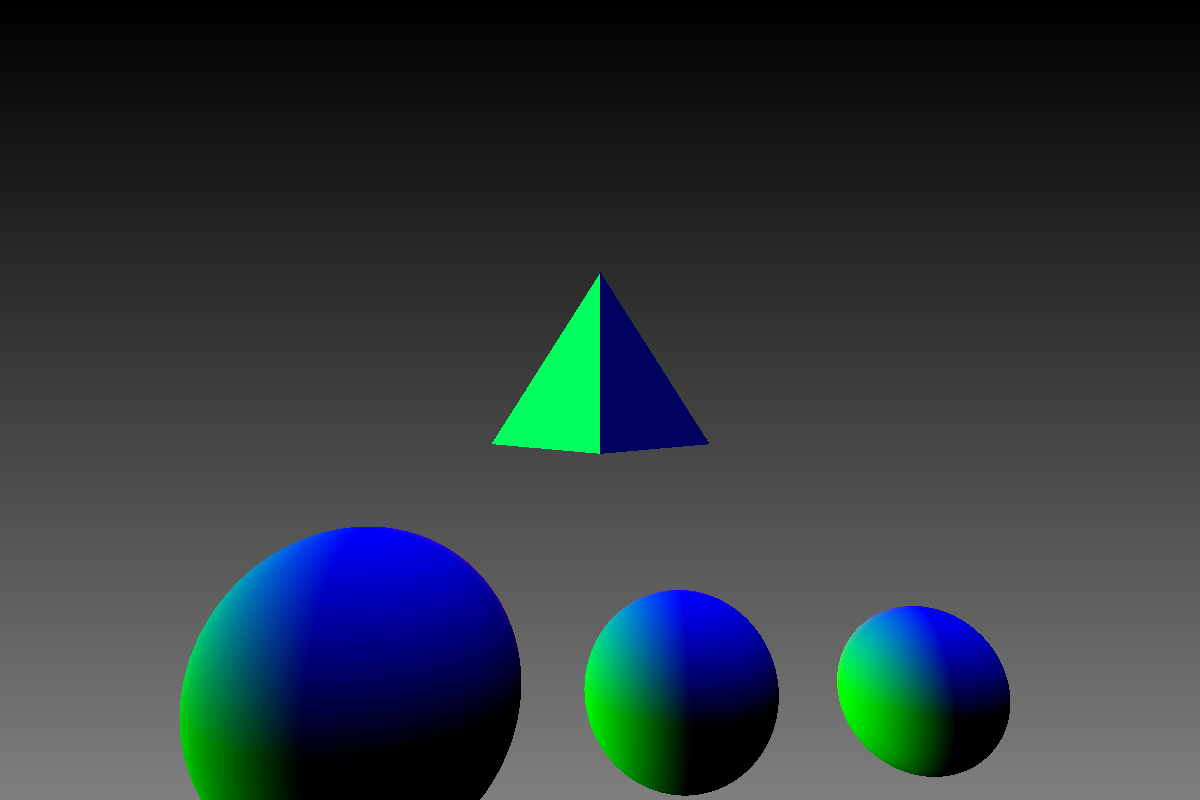
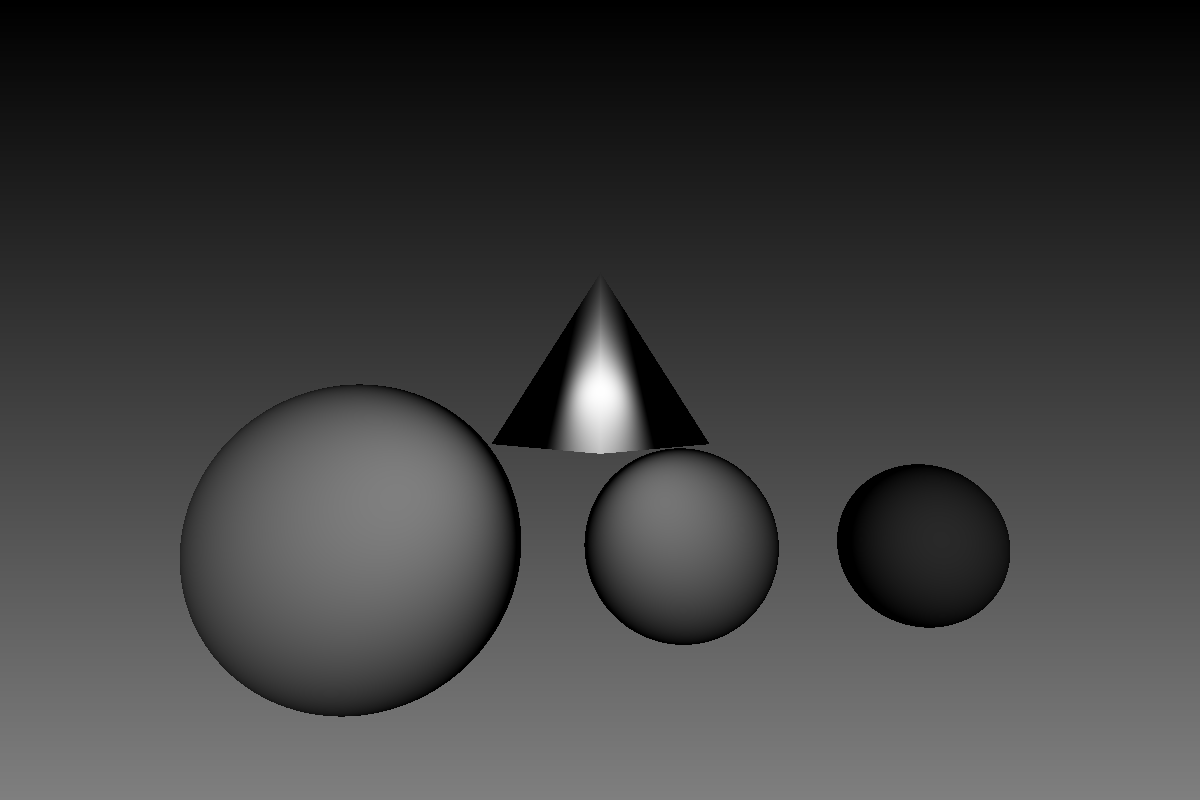
second

Changed region(s): [[0.1233, 0.3438, 0.6475, 1.0], [0.6783, 0.5625, 0.8633, 0.9688]]

diff --git a/render.go b/render.go
@@ -35,10 +35,10 @@ func Render(objectArray []geometry.Geometry, cam_or Vec, WIDTH, HEIGHT int, file
 
 			//tmin = depth of Hitpoint nearest to camera
 			var tMin float64 = 10000
-			var ObjectHitIndex int
+			//var ObjectHitIndex int
 
 			//Loop thorough Objects
-			for i, currentObject := range objectArray {
+			for _, currentObject := range objectArray {
 				
 				//Check for intersection in every Object
 				if currentObject.Intersect(ray, &t) {
@@ -50,7 +50,7 @@ func Render(objectArray []geometry.Geometry, cam_or Vec, WIDTH, HEIGHT int, file
 					if t < tminOld {
 						tMin = t
 						//what Object got hit
-						ObjectHitIndex = i
+						//ObjectHitIndex = i
 					}
 				}
 			}
@@ -59,14 +59,14 @@ func Render(objectArray []geometry.Geometry, cam_or Vec, WIDTH, HEIGHT int, file
 				HitPoint := ray.O.Add(ray.D.Multiply(tMin))
 
 				//Light Attendance
-				LightPos := Vec{-4, -1, 3}
+				LightPos := Vec{-6, 0, 1}
 				LightAttendance := Dot(HitPoint.Normalized(), LightPos.Normalized())
 
 				//Placeholder Color TODO!
 				//Color Spheres (color multiplied with Light Attendance)
 				//col = color.Gray32(float32(ObjectHitIndex) / 5)
 				col = color.Gray32(float32(LightAttendance))
-				col = color.FromVec(objectArray[ObjectHitIndex].Normal(ray, HitPoint))
+				//col = color.FromVec(objectArray[ObjectHitIndex].Normal(ray, HitPoint))
 				col.Clamp()
 			}
 			//convert float32 colors to 24 bit (0-255) color and save

diff --git a/main.go b/main.go
@@ -11,9 +11,9 @@ func main() {
 	//Simple Sphere test-scene
 	cam_or := Vec{-5, 0, 0}
 	//cam_dir := Vec{-1,0,0}.Normalized() // - TODO
-	sp1 := geometry.Sphere{Vec{0,-0.5,-1.8}, 0.6}
-	sp2 := geometry.Sphere{Vec{0,1.5,-1.8}, 1}
-	sp3 := geometry.Sphere{Vec{0,-2,-1.8}, 0.5}
+	sp1 := geometry.Sphere{Vec{0,-0.5,-0.9}, 0.6}
+	sp2 := geometry.Sphere{Vec{0,1.5,-0.9}, 1}
+	sp3 := geometry.Sphere{Vec{0,-2,-0.9}, 0.5}
 
 	//Cube
 	v1 := Vec{-0.5,0,-0.3}

diff --git a/geometry/geometry.go b/geometry/geometry.go
@@ -6,4 +6,5 @@ import . "../core"
 type Geometry interface {
 	Intersect(ray Ray, t *float64) bool
 	Normal(ray Ray, HitPoint Vec) Vec
+	
 }

diff --git a/geometry/obj.go b/geometry/obj.go
@@ -1,0 +1,5 @@
+package geometry
+
+type Mesh struct {
+	Tris []Tri
+}
